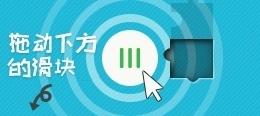
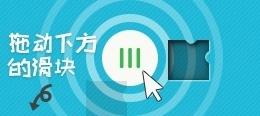
写完，还需测试

Changed region(s): [[0.6154, 0.0, 0.8308, 0.7241], [0.3077, 0.6983, 0.4923, 1.0], [0.3077, 0.9828, 0.3385, 1.0]]

diff --git a/Python3WebSpider/CrackGeetest/Crack_huxiu.py b/Python3WebSpider/CrackGeetest/Crack_huxiu.py
@@ -48,6 +48,7 @@ class CrackHuxiu():
         :params xpath: xpath选择器规则
         :return :验证码图片url，位置信息
         """
+        time.sleep(2)
         # 定义获取验证码图片url，位置信息的正则
         img_info_pattern = re.compile(r'background-image: url\("(.*?)"\); background-position: (.*?)px (.*?)px;')
         # 定位验证码标签
@@ -125,7 +126,7 @@ class CrackHuxiu():
         :params full_img: 完整验证码图片
         :return :缺口偏移量
         """
-        print(cut_img.width, cut_img.height)
+        # print(cut_img.width, cut_img.height)
         # 滑块的初始位置
         left = 53
         # 遍历像素点横坐标坐标
@@ -149,17 +150,78 @@ class CrackHuxiu():
         """
         # 获取带缺口图片的像素点（按照RGB格式）
         cut_pixel = cut_img.load()[x,y]
-        print(cut_pixel)
+        # print(cut_pixel)
         # 获取w完整图片的像素点（按照RGB格式）
         full_pixel = full_img.load()[x,y]
         # 设置一个判定值，像素值之差大于该值则判定像素不相同
         threshold =  60
         # 判断像素的各个颜色之差
+        # print(abs(cut_pixel[1] - full_pixel[1]))
         if abs(cut_pixel[1] - full_pixel[1]) < threshold and  abs(cut_pixel[0] - full_pixel[0]) < threshold and  abs(cut_pixel[2] - full_pixel[2]) < threshold:
             # 如果插值在判断值之内，判定返回的是相同像素
             return True
         else:
             return False 
+
+    def get_track(self, distance):
+        """
+        获取移动轨迹
+        :params distance: 位移距离
+        :return :移动轨迹
+        """
+        # 存储移动轨迹
+        track = []
+        # 当前位移
+        current = 0
+        # 减速阈值
+        mid = distance * 4 / 5
+        # 计算间隔
+        t = 0.2
+        # 初速度
+        v = 0
+        # 当还没有移动到终点的时候
+        while current < distance:
+            # 如果处于加速阶段：
+            if current < mid:
+                # 加速度为3
+                a = 3
+            else:
+                # 减速阶段，加速度为-2
+                a = -2
+            # 初速度为0
+            v0 = v
+            # 当前速度 v = v0 + a*t
+            v = v0 + a*t
+            # 移动距离 x = v0t + 1/2*a*t*t
+            move = v0*t + 1/2*a*t*t
+            current += move
+            track.append(round(move))
+        # print(track)
+        return track
+
+    def get_slider(self):
+        """
+        获取滑块
+        :return 滑块
+        """
+        slider = self.wait.until(EC.element_to_be_clickable((By.CLASS_NAME, 'gt_slider_knob')))
+        return slider
+
+    def move_to_gap(self, slider, track):
+        """
+        拖动滑块
+        :params slider: 滑块
+        :parasm track: 移动轨迹
+        """
+        # 悬停在滑块上
+        ActionChains(self.browser).click_and_hold(slider).perform()
+        for x in track:
+            # 拖动滑块
+            ActionChains(self.browser).move_by_offset(xoffset=x, yoffset=0).perform()
+        # 模拟人类对准时间
+        time.sleep(0.5)
+        # 释放滑块
+        ActionChains(self.browser).release().perform()
 
 
     def crack(self):
@@ -186,8 +248,31 @@ class CrackHuxiu():
 
         # 获取缺口位置
         gap = self.get_distance(cut_img, full_img)
+        print('缺口位置', gap)
+        # 减去缺口位移
+        gap -= 8
 
+        # 获取移动轨迹
+        track = self.get_track(gap)
+        print('移动轨迹', track)
 
+        # 获取滑块
+        slider = self.get_slider()
+        # print(slider)
+
+        # 拖动滑块
+        self.move_to_gap(slider, track)
+
+        try:
+            # 判断是否验证通过
+            success = self.wait.until(
+                EC.text_to_be_present_in_element((By.XPATH, '//span[@class="gt_info_type"]'), '验证通过:'))
+            print('验证通过')
+        except:
+            print('验证不通过')
+            success = False
+
+        return success
     def run(self):
         """
         运行
@@ -195,8 +280,10 @@ class CrackHuxiu():
         # 输入账号
         self.open()
 
-        # 验证验证码
-        self.crack()
+        # 验证码验证,不通过尝试刷新直至通过为止
+        while not self.crack():
+            # self.refresh()
+            pass
         
 
 if __name__ == '__main__':
